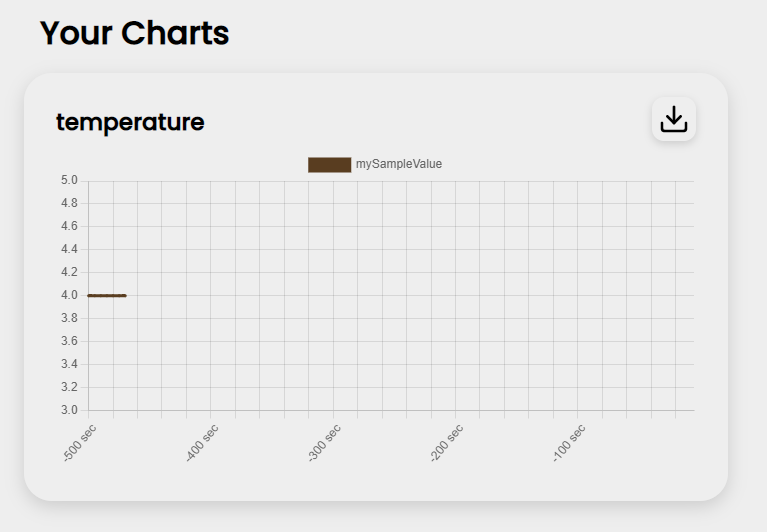
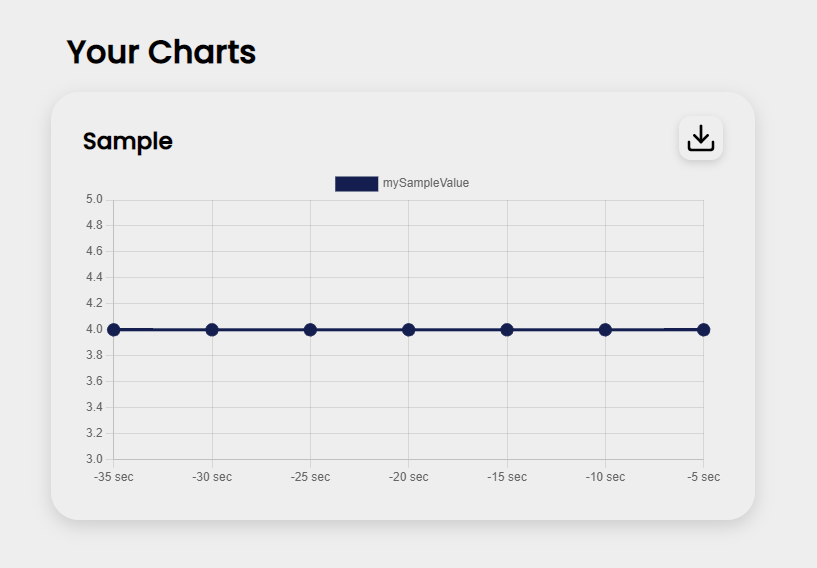
docs

diff --git a/web/public/src/main.js b/web/public/src/main.js
@@ -7,18 +7,16 @@ fetch('../temp.json').then(res => res.json()).then(x => {
 const max = 100;
 const chart = 'myChart1';
 const charts = [];
-function makeArray(n) {
+function makeArray(n, freq = 5000) {
   let ans = [];
-  // let t = 5;
+  let maxtime = freq * n;
   for (let i = 0; i < n; i++) {
-    // let v = ((max * t)) - ((i * t));
-    // if (i / 5 === Math.floor(i / 5)) {
-    //   ans.push(`-${v} sec`)
-    // } else {
-    //   ans.push(``)
-    // }
-    ans.push(i)
-
+    let v = ((maxtime) - ((i * freq))) / 1000;
+    if (i / 5 === Math.floor(i / 5)) {
+      ans.push(`-${v} sec`)
+    } else {
+      ans.push(`-${v} sec`)
+    }
   }
   return ans;
 }
@@ -78,8 +76,12 @@ function loadLogo(os) {
   logo.style = 'display:auto';
 }
 
+function updateLabels(chart, n) {
+  chart.data.labels = makeArray(n);
+}
+
 function addData(chart, data) {
-  chart.data.datasets.labels = makeArray(data.length);
+
   chart.data.datasets.forEach((dataset, i) => {
     dataset.data.push(data[i]);
   });
@@ -188,9 +190,12 @@ function main(json) {
   let i = 0;
   for (let chart in json.data) {
     const data = init(json.data[chart].data, json.length);
+    let labelsLength = (json.length > max) ? max : json.length;
+    let d = 6 - Math.floor(((4 * labelsLength) / max));
+    console.log(d)
     let opt = {
-      pointRadius: 1,
-      pointHoverRadius: 1,
+      pointRadius: d,
+      pointHoverRadius: 5,
       maintainAspectRatio: true
     };
     if (Object.keys(json.data[chart]).includes('bounds')) {
@@ -230,11 +235,22 @@ function UpdateGraph() {
           let l = json.data[chart].data[keys[i]];
           values.push(l[l.length - 1])
         }
-        //console.log(values)
+
+        let labelsLength = charts[j].data.datasets[0].data.length;
+
+
+
+
+
+        if (json.length <= max) {
+          updateLabels(charts[j], (labelsLength > max) ? max : labelsLength);
+        }
         addData(charts[j], values);
         if (json.length > max) {
           removeData(charts[j]);
         }
+
+
         j++;
       }
       charts.forEach((chart) => {

diff --git a/docs/apirc.md b/docs/apirc.md
@@ -59,3 +59,4 @@ Multiple charts can be added by adding to the `charts` object
 
 #### Web app
 
+<img src="/imgs/mySampleValue.png" width="650px"/>
